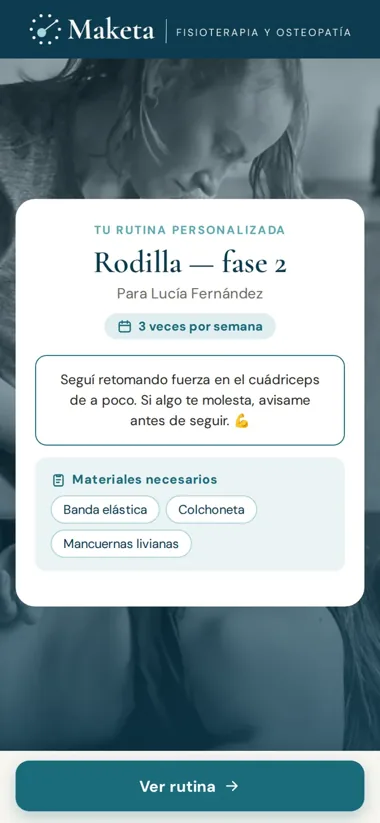
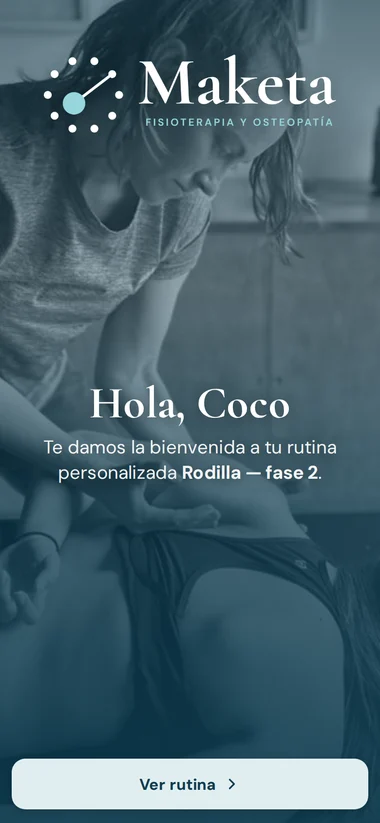
Update Maketa and UNICEF cases

diff --git a/index.html b/index.html
@@ -392,8 +392,8 @@ const GAL = {
     ["img/acapedia-3.webp", "Pass it and the credit is yours.", "l"],
     ["img/acapedia-m2.webp", "Pick the special requirements you need.", "p"]],
   unicef: [
-    ["img/unicef-ad1.webp", "Instagram ad: books to read and share as a family.", "s"],
-    ["img/unicef-ad2.webp", "Instagram ad: recipes to cook healthy and share as a family.", "s"],
+    ["img/unicef-ig1.webp", "Instagram ad: books to read and share as a family.", "p"],
+    ["img/unicef-ig2.webp", "Instagram ad: recipes to cook healthy and share as a family.", "p"],
     ["img/unicef-2.webp", "Blupi welcomes families to the subscription.", "p"],
     ["img/unicef-p2.webp", "What families get at home each month.", "p"],
     ["img/unicef-p3.webp", "Sign up with one short form.", "p"],
@@ -520,6 +520,12 @@ function flip(card, opening, done) {
 }
 
 function figHtml(s, k) { const ph = s[2] === "p", sh = s[2] === "s"; return '<figure class="' + s[2] + '"><div class="frame ' + (ph ? "phone" + (BAR[s[0]] ? "" : " nb") : sh ? "shot" : "browser") + '">' + (ph ? statusBar(s[0]) : sh ? "" : '<div class="bar"><i></i><i></i><i></i></div>') + '<img src="' + s[0] + '" alt="' + s[1] + '" data-k="' + k + '" loading="lazy"></div><figcaption>' + s[1] + '</figcaption></figure>'; }
+function rowsHtml(g) {
+  const row = function (t, fh, label) {
+    return '<div class="rail-wrap"><button class="rail-btn prev" type="button" aria-label="Previous screens">←</button><div class="rail" tabindex="0" style="--fh:' + fh + '" aria-label="' + label + '">' + g.map(function (s, k) { return s[2] === t ? figHtml(s, k) : ""; }).join("") + '</div><button class="rail-btn next" type="button" aria-label="Next screens">→</button></div>';
+  };
+  return row("p", "min(560px, 64vh)", "Patient screens") + row("l", "min(460px, 54vh)", "Physio screens");
+}
 function stackHtml(g) {
   const row = function (t, cls) { return '<div class="rail stack ' + cls + '" aria-label="Screenshots">' + g.map(function (s, k) { return s[2] === t ? figHtml(s, k) : ""; }).join("") + '</div>'; };
   return '<div class="stack-wrap">' + row("p", "ph-row") + row("l", "br-row") + '</div>';
@@ -528,7 +534,7 @@ function render(c, i) {
   kicker.textContent = "Case " + (i + 1) + " of " + CASES.length;
   const g = GAL[c.id] || [];
   const rail = g.length
-    ? (c.id === "rehab" ? stackHtml(g) :
+    ? (c.id === "rehab" ? rowsHtml(g) :
       '<div class="rail-wrap"><button class="rail-btn prev" type="button" aria-label="Previous screens">←</button><div class="rail" tabindex="0" aria-label="Screenshots of ' + c.title + '">' +
         g.map(figHtml).join("") +
       '</div><button class="rail-btn next" type="button" aria-label="Next screens">→</button></div>')
@@ -553,13 +559,13 @@ function render(c, i) {
   body.scrollTop = 0;
   lbList = g;
   body.querySelectorAll(".rail.stack").forEach(function (rr) { rr.addEventListener("click", function (e) { const im = e.target.closest("img"); if (im) openLb(+im.dataset.k); }); });
-  const r = body.querySelector(".rail-wrap .rail");
-  if (r) {
+  body.querySelectorAll(".rail-wrap").forEach(function (w) {
+    const r = w.querySelector(".rail");
     const step = function (d) { r.scrollBy({ left: d * Math.max(240, r.clientWidth * 0.7), behavior: reduce.matches ? "auto" : "smooth" }); };
-    body.querySelector(".prev").addEventListener("click", function () { step(-1); });
-    body.querySelector(".next").addEventListener("click", function () { step(1); });
+    w.querySelector(".prev").addEventListener("click", function () { step(-1); });
+    w.querySelector(".next").addEventListener("click", function () { step(1); });
     r.addEventListener("click", function (e) { const im = e.target.closest("img"); if (im) openLb(+im.dataset.k); });
-  }
+  });
   const nx = body.querySelector(".nextcase");
   nx.addEventListener("click", function () { switchCase(+nx.dataset.next); });
 }
